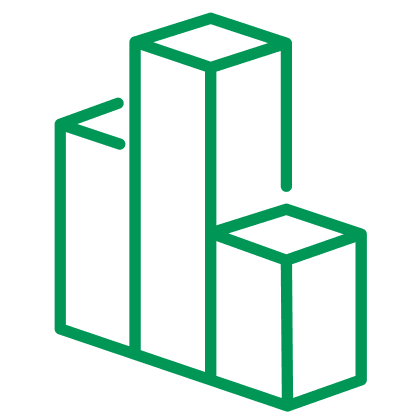
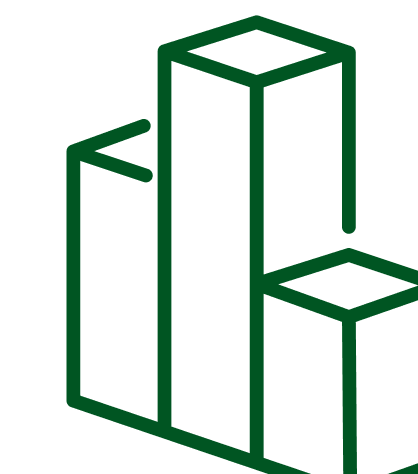
feat: add new images and components for Zevtera; update Efficacy page layout and imports

diff --git a/src/components/zevtera/efficacy/EfficacyTopTab.vue b/src/components/zevtera/efficacy/EfficacyTopTab.vue
@@ -5,7 +5,7 @@
 	>
 		<div class="flex flex-col gap-y-6 absolute top-1/2 left-[52px]">
 			<img
-				src="/src/assets/images/active-dot.png"
+				src="/src/assets/images/active-dot-purple.png"
 				alt="Active Dot"
 				class="h-5 w-5 cursor-pointer"
 			/>
@@ -17,87 +17,76 @@
 			/>
 		</div>
 		<div
-			class="flex flex-col justify-center font-effra transition-all duration-300"
+			class="flex flex-col font-effra transition-all duration-300"
 			:class="[sidebarOpen ? 'ml-[124px]' : 'ml-[224px]']"
 		>
-			<div class="flex justify-between mr-12">
-				<div>
-					<the-title class="max-w-[920px]">
-						EXBLIFEP® achieved superiority in overall treatment success* in patients with cUTIs vs piperacillin/tazobactam<sup>1</sup>
-					</the-title>
-					<img
-						src="/src/assets/images/lime-green-border.png"
-						alt="Lime Green Border"
-						class="h-1.5 w-auto my-5"
-					/>
-				</div>
+			<div class="relative flex justify-end mr-12 mt-16">
+				<img
+					src="/src/assets/images/bullet-long.png"
+					alt="Bullet Long"
+					class="absolute top-1/2 -translate-y-1/2 -left-20"
+				/>
 				<div
 					class="flex gap-x-3.5 items-center text-cool-grey text-2xl font-medium transform transition-all duration-300"
-					:class="[sidebarOpen ? 'translate-x-0' : '-translate-x-full']"
+					:class="[sidebarOpen ? 'translate-x-0' : '-translate-x-52']"
 				>
 					<img
-						src="/src/assets/images/touch.png"
+						src="/src/assets/images/touch-purple.png"
 						alt="Touch to select tab"
 						class="w-[70px] h-[70px]"
 					/>
-					<span>Select a tab</span>
+					<span>Touch a step to continue</span>
 				</div>
 			</div>
 
-			<p class="max-w-[1300px] text-xl leading-normal">
-				In ALLIUM, EXBLIFEP® demonstrated both non-inferiority and statistical superiority in overall treatment success (a composite endpoint of
-				clinical cure and microbiological eradication) at Day 14 vs piperacillin/tazobactam in patients in the PAS with cUTIs caused by gram-negative
-				pathogens1
-			</p>
-
-			<section class="flex pt-5 gap-x-[22px] z-10 relative">
-				<div class="flex flex-col w-[1034px]">
-					<div class="grid grid-cols-[1fr_2fr] gap-x-2">
-						<button
-							class="py-2.5 rounded-t-[20px] text-2xl transition-colors duration-500"
-							:class="[activeTab === Tabs.OVERALL_SUCCESS ? 'bg-electric-blue text-white' : 'bg-[#E4E4E4]']"
-							@click="activeTab = Tabs.OVERALL_SUCCESS"
-						>
-							Overall success*: Day 14
-						</button>
-						<button
-							class="py-2.5 rounded-t-[20px] text-2xl transition-colors duration-500"
-							:class="[activeTab === Tabs.CLINICAL_CURE ? 'bg-electric-blue text-white' : 'bg-[#E4E4E4]']"
-							@click="activeTab = Tabs.CLINICAL_CURE"
-						>
-							Clinical cure & Microbiological eradication: Day 14
-						</button>
-					</div>
-					<div
-						v-if="activeTab === Tabs.OVERALL_SUCCESS"
-						class="w-[1034px] h-[583px]"
-					>
-						<VLazyImage
-							:src="ChartA"
-							alt="Chart A"
-							class="w-full h-full"
-						/>
-					</div>
-					<div
-						v-if="activeTab === Tabs.CLINICAL_CURE"
-						class="w-[1034px] h-[583px]"
-					>
-						<VLazyImage
-							:src="ChartB"
-							alt="Chart B"
-							class="w-full h-full"
+			<section class="grid grid-cols-3 flex-1 content-center">
+				<div class="flex flex-col gap-y-16">
+					<the-title>More for your difficult-to-treat patients*</the-title>
+					<div class="relative bg-primary-green px-6 h-[284px] flex flex-col justify-center rounded-[20px] overflow-hidden">
+						<h3 class="text-[32px] leading-normal font-bold text-white">
+							Demonstrated<br />
+							efficacy<sup>5,6</sup>
+						</h3>
+						<img
+							src="/src/assets/images/chart-dark-green.png"
+							alt="Chart Dark Green"
+							class="absolute bottom-0 right-0 h-[255px] w-auto"
 						/>
 					</div>
 				</div>
-				<div class="bg-[#00EAFF] px-[22px] border-[6px] border-white">
+				<div class="relative bg-primary-green ml-10 rounded-[20px] overflow-hidden max-w-[420px]">
 					<img
-						src="/src/assets/images/chart-up.png"
-						alt="Chart Up"
-						class="w-[130px] h-[130px]"
+						src="/src/assets/images/touch-purple.png"
+						alt="Touch to select tab"
+						class="absolute w-[85px] h-[85px] top-[18px] right-6"
 					/>
-					<h3 class="text-[32px] max-w-[280px] mt-14 font-bold leading-normal">EXBLIFEP<sup>®</sup> demonstrated superiority</h3>
-					<p class="max-w-[280px] mt-3.5 text-xl leading-normal">
-						to piperacillin/tazobactam, representing a new appropriate option to treat cUTIs<sup>1</sup>
+					<img
+						src="/src/assets/images/arrow-down-dark-green.png"
+						alt="Arrow Down"
+						class="h-[175px] w-auto mt-5"
+					/>
+					<h2 class="text-5xl text-white font-bold mt-7 pl-7">
+						Fast<br />
+						bactericidal activity
+					</h2>
+					<p class="text-2xl text-white leading-normal mt-4 font-uni-grotesk pl-7">
+						ZEVTERA® exhibits rapid in vitro bactericidal activity in Gram-positive and Gram-negative pathogens<sup>5</sup>
+					</p>
+				</div>
+				<div class="relative bg-primary-green rounded-[20px] overflow-hidden max-w-[420px]">
+					<img
+						src="/src/assets/images/touch-purple.png"
+						alt="Touch to select tab"
+						class="absolute w-[85px] h-[85px] top-[18px] right-6"
+					/>
+					<img
+						src="/src/assets/images/up-arrows-dark-green.png"
+						alt="Arrow Down"
+						class="h-[225px] w-auto mt-[22px] ml-7"
+					/>
+					<h2 class="text-5xl text-white font-bold mt-7 pl-7">Clinical efficacy from Days 3-4</h2>
+					<p class="text-2xl text-white leading-normal mt-4 font-uni-grotesk pl-7 pr-4">
+						Early improvement at Day 3 in patients with CAP by risk factors (CE)<sup>6</sup>
 					</p>
 				</div>
 			</section>
@@ -107,13 +96,7 @@
 			<the-footer
 				class="transition-all duration-300 mb-4"
 				:class="[sidebarOpen ? 'pl-[124px]' : 'pl-[224px]']"
-				>CFU, colony-forming unit; CI, confidence interval; cUTI, complicated urinary tract infection; MIC, minimum inhibitory concentration; PAS,
-				primary analysis set. *Primary outcome was the proportion of patients in the primary analysis set (PAS) who achieved a composite outcome of
-				complete resolution of the baseline signs and symptoms present at screening (clinical cure) and reduction of qualifying baseline pathogen to
-				less than 103 CFU/mL in urine (microbiological eradication) at Day 14. The PAS included all patients who received at least 1 dose of study drug
-				and had a gram-negative baseline pathogen in urine at 105 CFU/mL or more or the same pathogen present in both blood and urine cultures that was
-				not resistant to either cefepime/enmetazobactam (MIC ≤8 μg/mL) or piperacillin/tazobactam (MIC ≤64 μg/mL).1†Treatment difference is the
-				difference in the overall success rate between the two treatment arms (95% CIs, 2-sided, stratified Newcombe method).1</the-footer
+				>*Patients' groups who are severely ill or at high risk of poor outcomes</the-footer
 			>
 			<ExploreAnother />
 			<button
@@ -138,7 +121,7 @@ import VLazyImage from 'v-lazy-image';
 import ChartA from '@/assets/images/chart-a.svg';
 import ChartB from '@/assets/images/chart-b.png';
 
-import TheTitle from './TheTitle.vue';
+import TheTitle from '@/components/zevtera/TheTitle.vue';
 import TheFooter from '@/components/TheFooter.vue';
 import ExploreAnother from '@/components/ExploreAnother.vue';
 

diff --git a/src/components/zevtera/efficacy/EfficacyBottomTab.vue b/src/components/zevtera/efficacy/EfficacyBottomTab.vue
@@ -243,10 +243,8 @@
 </template>
 
 <script setup>
-import { computed, ref, watch } from 'vue';
+import { ref, watch } from 'vue';
 
-import InfoIcon from './efficacy/InfoIcon.vue';
-import InfoCard from './efficacy/InfoCard.vue';
 import TheFooter from '@/components/TheFooter.vue';
 import NextSection from '@/components/NextSection.vue';
 import ExploreAnother from '@/components/ExploreAnother.vue';

diff --git a/src/pages/zevtera/Efficacy.vue b/src/pages/zevtera/Efficacy.vue
@@ -16,7 +16,7 @@
 <script setup>
 import { ref } from 'vue';
 
-import EfficacyTopTab from '@/components/zevtera/efficay/EfficacyTopTab.vue';
+import EfficacyTopTab from '@/components/zevtera/efficacy/EfficacyTopTab.vue';
 import EfficacyBottomTab from '@/components/zevtera/efficacy/EfficacyBottomTab.vue';
 
 defineProps({

diff --git a/src/pages/zevtera/Zevtera.vue b/src/pages/zevtera/Zevtera.vue
@@ -57,7 +57,7 @@
 						class="mt-9 font-uni-grotesk"
 					>
 						<img
-							src="/src/assets/images/chart-dark-green.png"
+							src="/src/assets/images/chart-green.png"
 							alt="Chart Dark Green"
 							class="w-[106px] h-auto"
 						/>

diff --git a/tailwind.config.js b/tailwind.config.js
@@ -9,6 +9,7 @@ export default {
 			'dark-blue': '#002470',
 			'cool-grey': '#646469',
 			charcoal: '#2E2E2E',
+			'primary-green': '#009656',
 		},
 		extend: {
 			fontFamily: {

diff --git a/src/components/zevtera/TheTitle.vue b/src/components/zevtera/TheTitle.vue
@@ -1,0 +1,3 @@
+<template>
+	<h1 class="text-charcoal text-[60px] font-bold leading-[70px]"><slot></slot></h1>
+</template>
